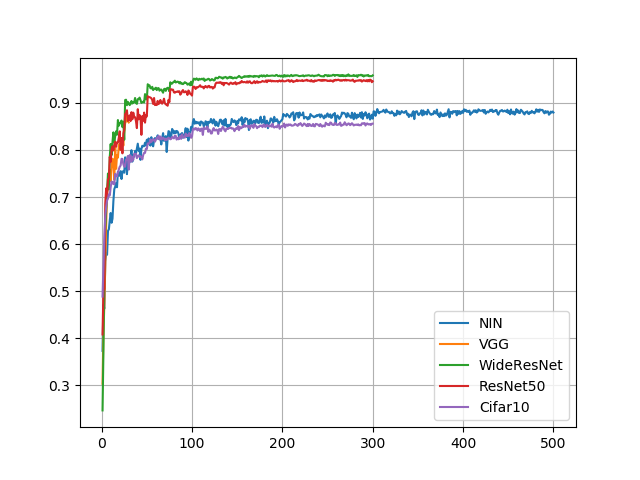
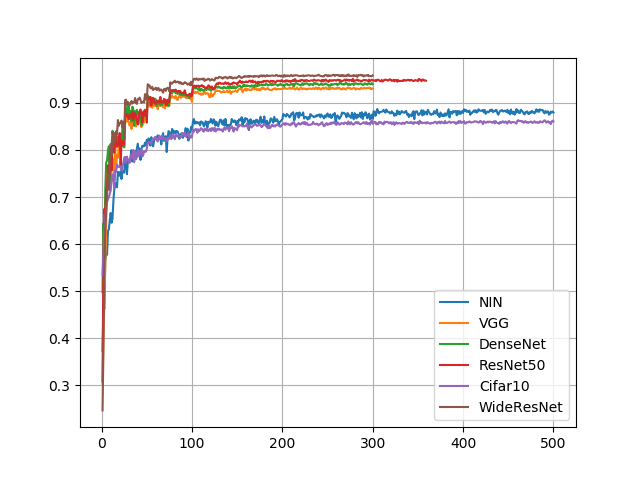
Update README

diff --git a/collect_results.py b/collect_results.py
@@ -44,8 +44,14 @@ accuracies = {}
 for model_name, rows in rows.items():
     rows = sorted(rows, reverse=True)
     for acc, log, args, dname in rows:
-        accuracies['{},{}'.format(args['model_name'], dname)] = np.array([
-            (l['epoch'], l['val/main/accuracy']) for l in log])
+        if args['model_name'] in accuracies:
+            if acc > accuracies[args['model_name']][-1, 1]:
+                accuracies[args['model_name']] = np.array([
+                    (l['epoch'], l['val/main/accuracy']) for l in log])
+        else:
+            accuracies[args['model_name']] = np.array([
+                (l['epoch'], l['val/main/accuracy']) for l in log])
+
         for key, value in log[-1].items():
             if key not in headers:
                 continue

diff --git a/README.md b/README.md
@@ -55,9 +55,10 @@ See the details at `transform` function in `train.py`.
 |   val/main/accuracy |   epoch | model_name   |   batchsize |   initial_lr |   lr_decay_rate |   lr_decay_epoch |   weight_decay |   random_angle |   pca_sigma |   expand_ratio | crop_size   |
 |--------------------:|--------:|:-------------|------------:|-------------:|----------------:|-----------------:|---------------:|---------------:|------------:|---------------:|:------------|
 |            0.958169 |     300 | WideResNet   |         128 |         0.05 |             0.5 |               25 |         0.0005 |             15 |        25.5 |            1.2 | [28, 28]    |
-|            0.945708 |     300 | ResNet50     |         128 |         0.05 |             0.5 |               25 |         0.0005 |             15 |        25.5 |            1.2 | [28, 28]    |
-|            0.930083 |     300 | VGG          |         128 |         0.1  |             0.5 |               30 |         0.0005 |             15 |        25.5 |            1.0 | [28, 28]    |
+|            0.949169 |     355 | ResNet50     |         128 |         0.05 |             0.5 |               25 |         0.0005 |             15 |        25.5 |            1.2 | [28, 28]    |
+|            0.939478 |     300 | DenseNet     |         128 |         0.05 |             0.5 |               25 |         0.0005 |             15 |        25.5 |            1.2 | [28, 28]    |
+|            0.930281 |     300 | VGG          |         128 |         0.05 |             0.5 |               25 |         0.0005 |             15 |        25.5 |            1.2 | [28, 28]    |
 |            0.879351 |     500 | NIN          |         128 |         0.01 |             0.5 |              100 |         0.0005 |             15 |        25.5 |            1.2 | [28, 28]    |
-|            0.855815 |     300 | Cifar10      |         128 |         0.01 |             0.5 |               50 |         0.0005 |             15 |        25.5 |            1.2 | [28, 28]    |
+|            0.860166 |     500 | Cifar10      |         128 |         0.01 |             0.5 |               50 |         0.0005 |             15 |        25.5 |            1.2 | [28, 28]    |
 
 ![](compare.png)
